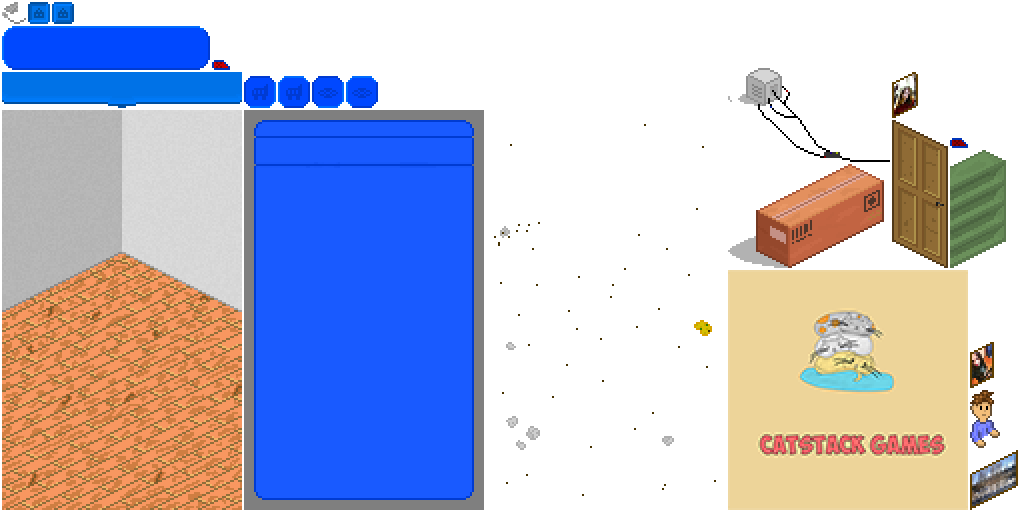
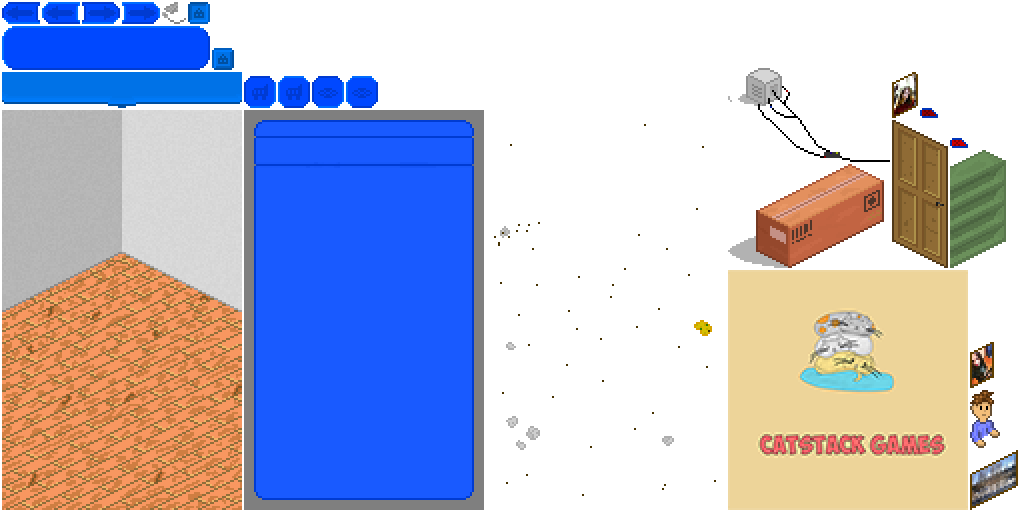
Shop demo

Changed region(s): [[0.0, 0.0, 0.2188, 0.0625], [0.1875, 0.0938, 0.25, 0.1562], [0.9062, 0.2188, 0.9375, 0.25]]

diff --git a/core/src/ru/catstack/programmerclicker/screens/Shop.java b/core/src/ru/catstack/programmerclicker/screens/Shop.java
@@ -12,14 +12,28 @@ public class Shop {
 
     private static boolean isOpen = false;
 
-    private Button close;
+    private Button closeButton;
+    private Button leftButton;
+    private Button rightButton;
 
 //    private ArrayList<ShopItem> shopItems = new ArrayList<>();
     private ShopItems shopItems = new ShopItems();
 
     public void ini(){
-        close = new Button(IMG.SHOP_CLOSE_BUTTON_UP.getTextureRegion(), IMG.SHOP_CLOSE_BUTTON_DOWN.getTextureRegion(), 208, 376);
-        close.setAction(() -> isOpen = false);
+        closeButton = new Button(IMG.SHOP_CLOSE_BUTTON_UP, IMG.SHOP_CLOSE_BUTTON_DOWN, 208, 376);
+        closeButton.setAction(() -> isOpen = false);
+
+        leftButton = new Button(IMG.LEFT_BUTTON_UP, IMG.LEFT_BUTTON_DOWN, 22, 18);
+        leftButton.setAction(() -> {
+            if(shopItems.getThisPage() > 1)
+                shopItems.subtractPage();
+        });
+
+        rightButton = new Button(IMG.RIGHT_BUTTON_UP, IMG.RIGHT_BUTTON_DOWN, 180, 18);
+        rightButton.setAction(() -> {
+            if(shopItems.getThisPage() < shopItems.getPages())
+                shopItems.addPage();
+        });
 
         shopItems.addShopItem("Awesome curse", Upgrades.PICTURE1);
         shopItems.addShopItem("Mystery Girl", Upgrades.PICTURE3);
@@ -38,15 +52,20 @@ public class Shop {
     }
 
     public void update(){
-        close.update();
+        closeButton.update();
+        leftButton.update();
+        rightButton.update();
 
         shopItems.update();
     }
 
     public void draw(SpriteBatch batch){
         batch.draw(IMG.SHOP_GUI.getTextureRegion(), 0, 0);
-        close.draw(batch);
+        closeButton.draw(batch);
+        leftButton.draw(batch);
+        rightButton.draw(batch);
         TextUtils.centerTextRender(Fonts.DEFAULT_SMALL_FONT.getFont(), "Shop", 384, batch);
+        TextUtils.centerTextRender(Fonts.DEFAULT_SMALL_FONT.getFont(), shopItems.getThisPage()+"/"+shopItems.getPages(), 32, batch);
 
         shopItems.draw(batch);
     }

diff --git a/core/src/ru/catstack/programmerclicker/resources/IMG.java b/core/src/ru/catstack/programmerclicker/resources/IMG.java
@@ -28,6 +28,10 @@ public enum IMG {
     BUY_BUTTON_DOWN("BuyButtonDown"),
     WATCH_BUTTON_UP("WatchButtonUp"),
     WATCH_BUTTON_DOWN("WatchButtonDown"),
+    LEFT_BUTTON_UP("LeftButtonUp"),
+    LEFT_BUTTON_DOWN("LeftButtonDown"),
+    RIGHT_BUTTON_UP("RightButtonUp"),
+    RIGHT_BUTTON_DOWN("RightButtonDown"),
     ;
 
     private static final String ATLAS_PATH = "ProgrammerClicker.pack";

diff --git a/core/src/ru/catstack/programmerclicker/objects/ShopItems.java b/core/src/ru/catstack/programmerclicker/objects/ShopItems.java
@@ -58,4 +58,12 @@ public class ShopItems extends ArrayList<ShopItem>{
     public void setThisPage(int thisPage) {
         this.thisPage = thisPage;
     }
+
+    public int getThisPage() {
+        return thisPage;
+    }
+
+    public int getPages() {
+        return pages;
+    }
 }
